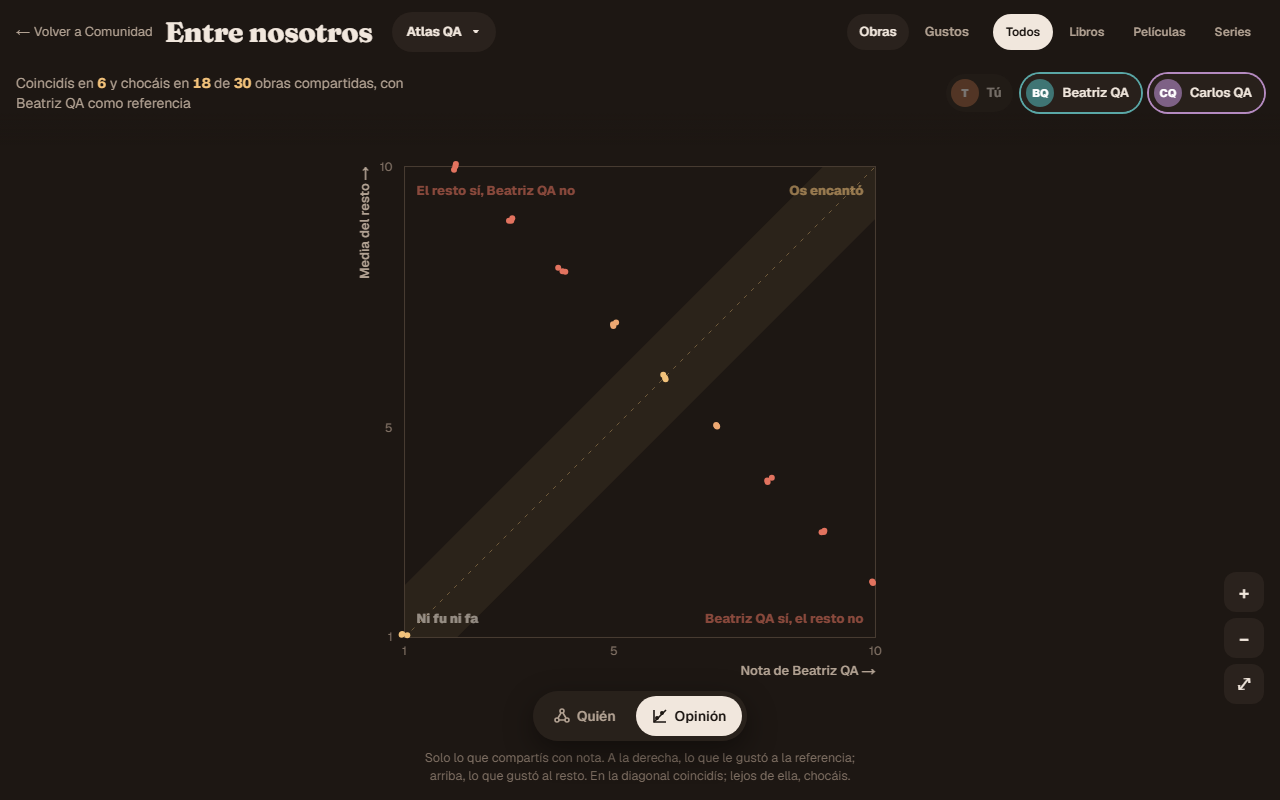
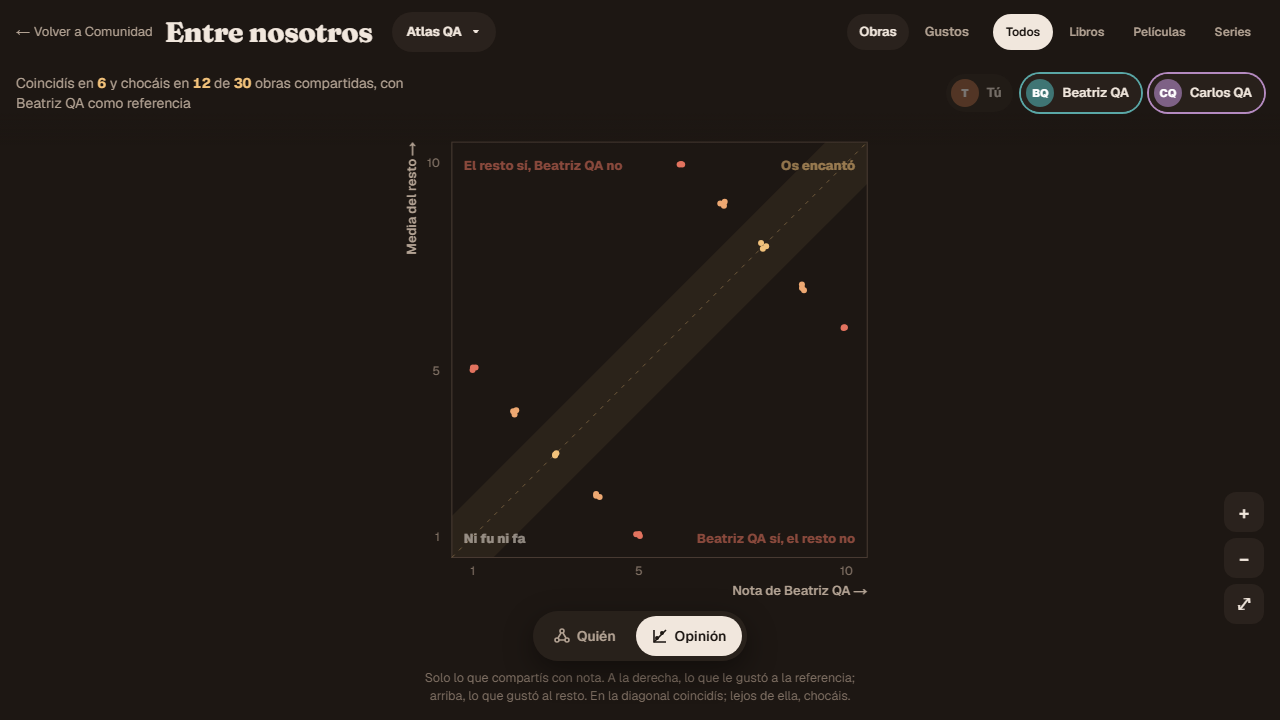
fix(entre-nosotros): marco con medio punto de margen, extent con los títulos de los ejes y escala de notas dentro de la pista

diff --git a/src/components/comparisons/atlas/paint-opinion.test.ts b/src/components/comparisons/atlas/paint-opinion.test.ts
@@ -1,5 +1,7 @@
 import { describe, expect, it, vi } from 'vitest';
 import type { Palette, PaintView } from './atlas-palette';
+import { toScreen } from '@/lib/comparisons/atlas/camera';
+import { ratingX } from '@/lib/comparisons/atlas/opinion';
 import { paintOpinionBack, type OpinionLabels } from './paint-opinion';
 
 const palette: Palette = { fg: 'FG', muted: 'MUTED', line: 'LINE', glow: 'GLOW', cream: 'CREAM', faint: 'FAINT', clash: 'CLASH', font: 'sans',
@@ -7,10 +9,12 @@ const palette: Palette = { fg: 'FG', muted: 'MUTED', line: 'LINE', glow: 'GLOW',
 const labels: OpinionLabels = { axisRef: 'Tu nota →', axisOthers: 'Media del resto →', loved: 'Os encantó', meh: 'Ni fu ni fa',
   refYes: 'Tú sí, ellos no', othersYes: 'Ellos sí, tú no' };
 
+const rect = vi.fn<(x: number, y: number, w: number, h: number) => void>();
 function paint(withLabels?: OpinionLabels) {
+  rect.mockClear();
   const noop = () => {};
   const ctx = { fillStyle: '', strokeStyle: '', lineWidth: 1, globalAlpha: 1, beginPath: noop, moveTo: noop, lineTo: noop, closePath: noop, fill: noop,
-    strokeRect: noop, setLineDash: noop, stroke: noop, save: noop, translate: noop, rotate: noop, restore: noop } as unknown as CanvasRenderingContext2D;
+    strokeRect: rect, setLineDash: noop, stroke: noop, save: noop, translate: noop, rotate: noop, restore: noop } as unknown as CanvasRenderingContext2D;
   const text = vi.fn<PaintView['text']>();
   paintOpinionBack({ ctx, cam: { x: 0, y: 0, k: 0.5 }, vp: { width: 800, height: 800 }, palette, text }, withLabels);
   return text;
@@ -18,6 +22,18 @@ function paint(withLabels?: OpinionLabels) {
 const call = (text: ReturnType<typeof paint>, value: string) => text.mock.calls.find(([v]) => v === value);
 
 describe('paintOpinionBack', () => {
+  it('pads the frame by half a point so ratings 1 and 10 lie strictly inside it', () => {
+    paint();
+    const [x, y, w, h] = rect.mock.calls[0];
+    const cam = { x: 0, y: 0, k: 0.5 }, vp = { width: 800, height: 800 };
+    const [top, height] = h < 0 ? [y + h, -h] : [y, h];
+    for (const rating of [1, 10]) for (const other of [1, 10]) {
+      const at = toScreen(cam, vp, { x: ratingX(rating), y: -ratingX(other) });
+      expect(at.x).toBeGreaterThan(x); expect(at.x).toBeLessThan(x + w);
+      expect(at.y).toBeGreaterThan(top); expect(at.y).toBeLessThan(top + height);
+    }
+    expect(w).toBeCloseTo(10 * 170 * 0.5); // ratings 0.5–10.5 = 10 points wide
+  });
   it('names each corner in its place, alignment and colour', () => {
     const text = paint(labels);
     const centre = 400;

diff --git a/src/components/comparisons/atlas/paint-opinion.ts b/src/components/comparisons/atlas/paint-opinion.ts
@@ -1,13 +1,13 @@
 import { toScreen } from '@/lib/comparisons/atlas/camera';
-import { AGREE_MAX, RATING_STEP, ratingX } from '@/lib/comparisons/atlas/opinion';
+import { AGREE_MAX, FRAME_MAX, FRAME_MIN, RATING_STEP, ratingX } from '@/lib/comparisons/atlas/opinion';
 import type { PaintView } from './atlas-palette';
 
 export type OpinionLabels = { axisRef: string; axisOthers: string; loved: string; meh: string; refYes: string; othersYes: string };
 
-/** Frame, agreement band (±1 point) around the diagonal, ticks 1/5/10, axis titles and named corners (prototype `drawOpinionBg`). Text is skipped without labels. */
+/** Frame (ratings 0.5–10.5), agreement band (±1 point) around the diagonal, ticks 1/5/10, axis titles and named corners (prototype `drawOpinionBg`). Text is skipped without labels. */
 export function paintOpinionBack({ ctx, cam, vp, palette, text }: PaintView, labels?: OpinionLabels) {
   const k = cam.k;
-  const lo = toScreen(cam, vp, { x: ratingX(1), y: -ratingX(1) }), hi = toScreen(cam, vp, { x: ratingX(10), y: -ratingX(10) });
+  const lo = toScreen(cam, vp, { x: ratingX(FRAME_MIN), y: -ratingX(FRAME_MIN) }), hi = toScreen(cam, vp, { x: ratingX(FRAME_MAX), y: -ratingX(FRAME_MAX) });
   const band = RATING_STEP * AGREE_MAX * k;
   ctx.fillStyle = 'rgba(242,194,123,.07)'; ctx.beginPath();
   ctx.moveTo(lo.x, lo.y - band); ctx.lineTo(lo.x, lo.y); ctx.lineTo(lo.x + band, lo.y);

diff --git a/src/components/comparisons/atlas/atlas.module.css b/src/components/comparisons/atlas/atlas.module.css
@@ -27,9 +27,9 @@
 .owners li { display: contents; }
 .ownerDot { width: 9px; height: 9px; border-radius: 50%; display: inline-block; }
 .scale { display: grid; gap: 4px; min-width: 180px; margin-top: 6px; }
-.scaleTrack { position: relative; height: 40px; margin: 0 10px; border-bottom: 1px solid var(--atlas-line); }
+.scaleTrack { position: relative; height: 40px; border-bottom: 1px solid var(--atlas-line); }
 .scaleDot { position: absolute; transform: translateX(-50%); width: 20px; height: 20px; border-radius: 50%; display: grid; place-items: center; font-size: 9px; font-weight: 800; color: #fff; box-shadow: 0 0 0 2px var(--atlas-panel); }
-.scaleTicks { position: relative; height: 14px; margin: 0 10px; font-size: 11px; color: var(--atlas-faint); }
+.scaleTicks { position: relative; height: 14px; font-size: 11px; color: var(--atlas-faint); }
 .scaleTicks span { position: absolute; transform: translateX(-50%); }
 .scaleNone { margin: 0; font-size: 11px; color: var(--atlas-faint); }
 .sheet { position: absolute; left: 12px; right: 12px; bottom: calc(12px + env(safe-area-inset-bottom, 0px)); z-index: 4; display: flex; gap: 12px; align-items: flex-start; padding: 14px; border-radius: 18px; background: var(--atlas-panel); box-shadow: 0 -8px 30px rgba(0,0,0,.5); color: var(--atlas-fg); }

diff --git a/src/components/comparisons/atlas/rating-scale.test.tsx b/src/components/comparisons/atlas/rating-scale.test.tsx
@@ -29,4 +29,14 @@ describe('RatingScale', () => {
     </NextIntlClientProvider>);
     expect((screen.getByRole('img').firstElementChild as HTMLElement).style.height).toBe('40px');
   });
+  it('los puntos y las cifras quedan dentro de la pista: la nota 10 no se sale por la derecha', () => {
+    render(<NextIntlClientProvider locale="es" messages={messages}>
+      <RatingScale people={people} owners={[owner('me', 10), owner('b', 1)]}/>
+    </NextIntlClientProvider>);
+    const scale = screen.getByRole('img');
+    const dots = [...(scale.firstElementChild as HTMLElement).querySelectorAll('span')] as HTMLElement[];
+    expect(dots.map(dot => dot.style.left)).toEqual(['calc(10px + 1 * (100% - 20px))', 'calc(10px + 0 * (100% - 20px))']);
+    const ticks = [...(scale.children[1] as HTMLElement).querySelectorAll('span')] as HTMLElement[];
+    expect(ticks[2].style.left).toBe('calc(10px + 1 * (100% - 20px))');
+  });
 });

diff --git a/src/lib/comparisons/atlas/opinion.ts b/src/lib/comparisons/atlas/opinion.ts
@@ -6,7 +6,11 @@ export const RATING_STEP = 170;
 export const AGREE_MAX = 1;
 export const CLASH_MIN = 3;
 const JITTER = 26;
-export const OPINION_EXTENT: Extent = { minX: -900, minY: -900, maxX: 900, maxY: 900 };
+/** Frame spans ratings 0.5–10.5 (±850); the rest is room for the y-axis title (left) and the x-axis title and ticks (below). */
+export const OPINION_EXTENT: Extent = { minX: -1080, minY: -920, maxX: 920, maxY: 1020 };
+/** Half a point of padding so ratings 1 and 10 sit inside the frame, not on its edge. */
+export const FRAME_MIN = 0.5;
+export const FRAME_MAX = 10.5;
 
 export type OpinionPoint = Point & { ref: number; others: number; diff: number };
 export type OpinionLayout = { reference: string | null; positions: Map<WorkKey, OpinionPoint>; extent: Extent };

diff --git a/src/components/comparisons/atlas/rating-scale.tsx b/src/components/comparisons/atlas/rating-scale.tsx
@@ -5,7 +5,8 @@ import type { AtlasOwner, AtlasPerson } from '@/lib/comparisons/atlas/types';
 import { initials } from '../presentation';
 import styles from './atlas.module.css';
 
-const at = (rating: number) => `${(rating - 1) / 9 * 100}%`;
+/** Inset by the dot radius so ratings 1 and 10 stay inside the track. */
+const at = (rating: number) => `calc(10px + (100% - 20px) * ${(rating - 1) / 9})`;
 
 /** Each person's avatar on one 1–10 scale (Cinema Circle), not an average. */
 export function RatingScale({ owners, people }: { owners: AtlasOwner[]; people: AtlasPerson[] }) {

diff --git a/docs/testing/2026-10-13-entre-nosotros-atlas-f2.md b/docs/testing/2026-10-13-entre-nosotros-atlas-f2.md
@@ -75,3 +75,13 @@ Sin scroll horizontal en ninguna de las dos (`scrollWidth ≤ innerWidth`).
 - Portadas reales: son de F4; aquí solo se ven placeholders.
 - Android (Capacitor) y lectores de pantalla en la lente Opinión.
 - Test LOCAL ONLY contra Supabase local.
+
+## Arreglos visuales tras las capturas (2026-10-14)
+
+Tres defectos vistos en las capturas, arreglados y recapturadas las cuatro imágenes (build de producción, mismo método; Tú varía su nota `(i·3) mod 10 + 1`, Beatriz `(i·7) mod 10 + 1`, Carlos `(i·3+4) mod 10 + 1`).
+
+- **Notas 1 y 10 en el borde del marco**: el marco, la banda de coincidencia y la diagonal abarcan ahora las notas 0,5–10,5 (`FRAME_MIN`/`FRAME_MAX` en `opinion.ts`); las cifras siguen en 1, 5 y 10. Prueba nueva en `paint-opinion.test.ts`: las notas 1 y 10 caen estrictamente dentro del rectángulo.
+- **Títulos y cifras de los ejes recortados en móvil**: `OPINION_EXTENT` pasa a `{ minX: −1080, maxX: 920, minY: −920, maxY: 1020 }`, con hueco para el título del eje Y (izquierda) y el del eje X y las cifras (abajo). En `mobile-opinion.png` y en escritorio se ven enteros.
+- **Escala de la mini-ficha desbordada**: puntos y cifras se colocan en `calc(10px + (100% - 20px) * p)`, sin márgenes laterales en la pista. La nota 10 ya no se sale por la derecha (`mobile-opinion-sheet.png`). Prueba nueva en `rating-scale.test.tsx` (jsdom normaliza el estilo a `calc(10px + 1 * (100% - 20px))`).
+
+Verificación: vitest 27 ficheros, 542 pruebas; `tsc` y lint sin errores; e2e del atlas 4 passed, 4 skipped (por proyecto).
